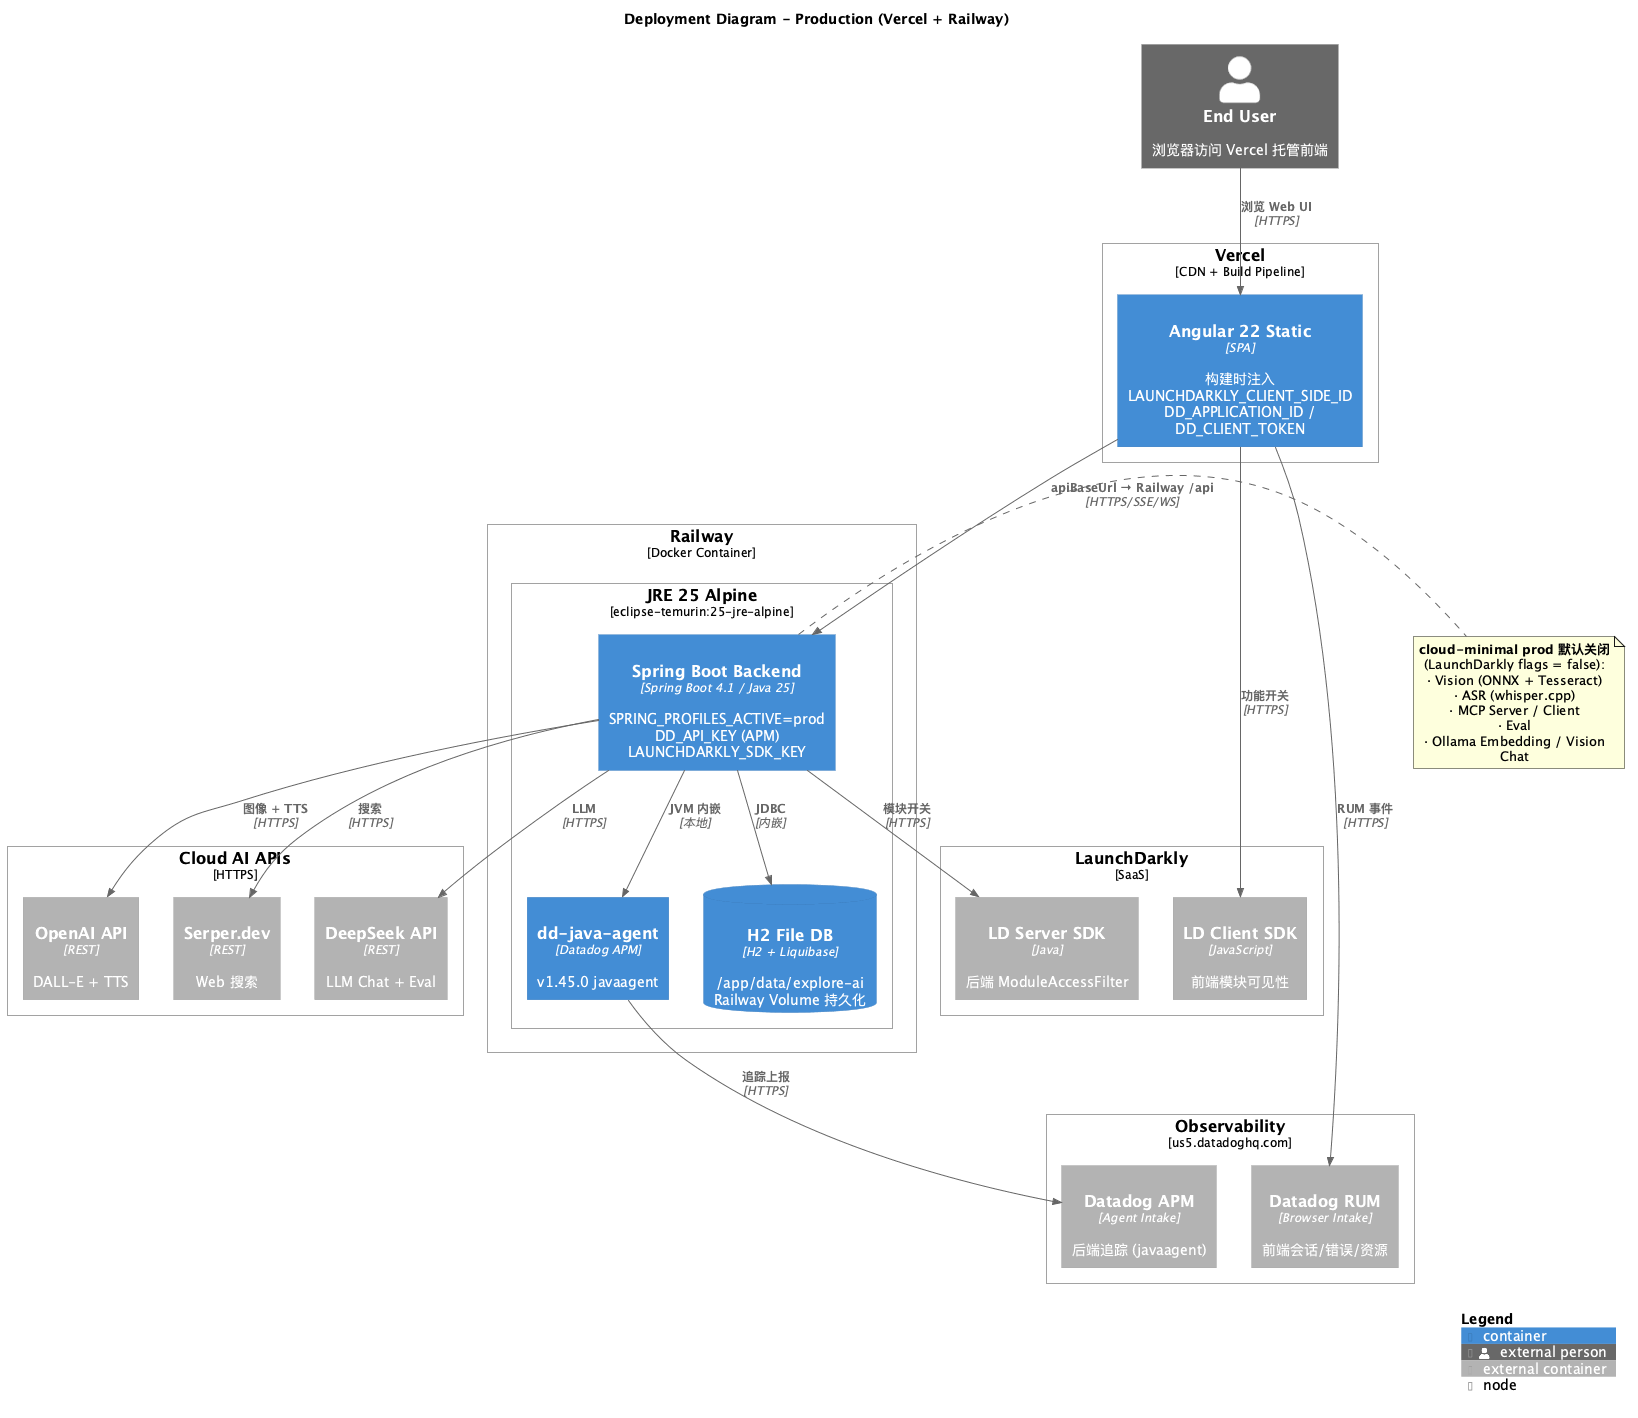
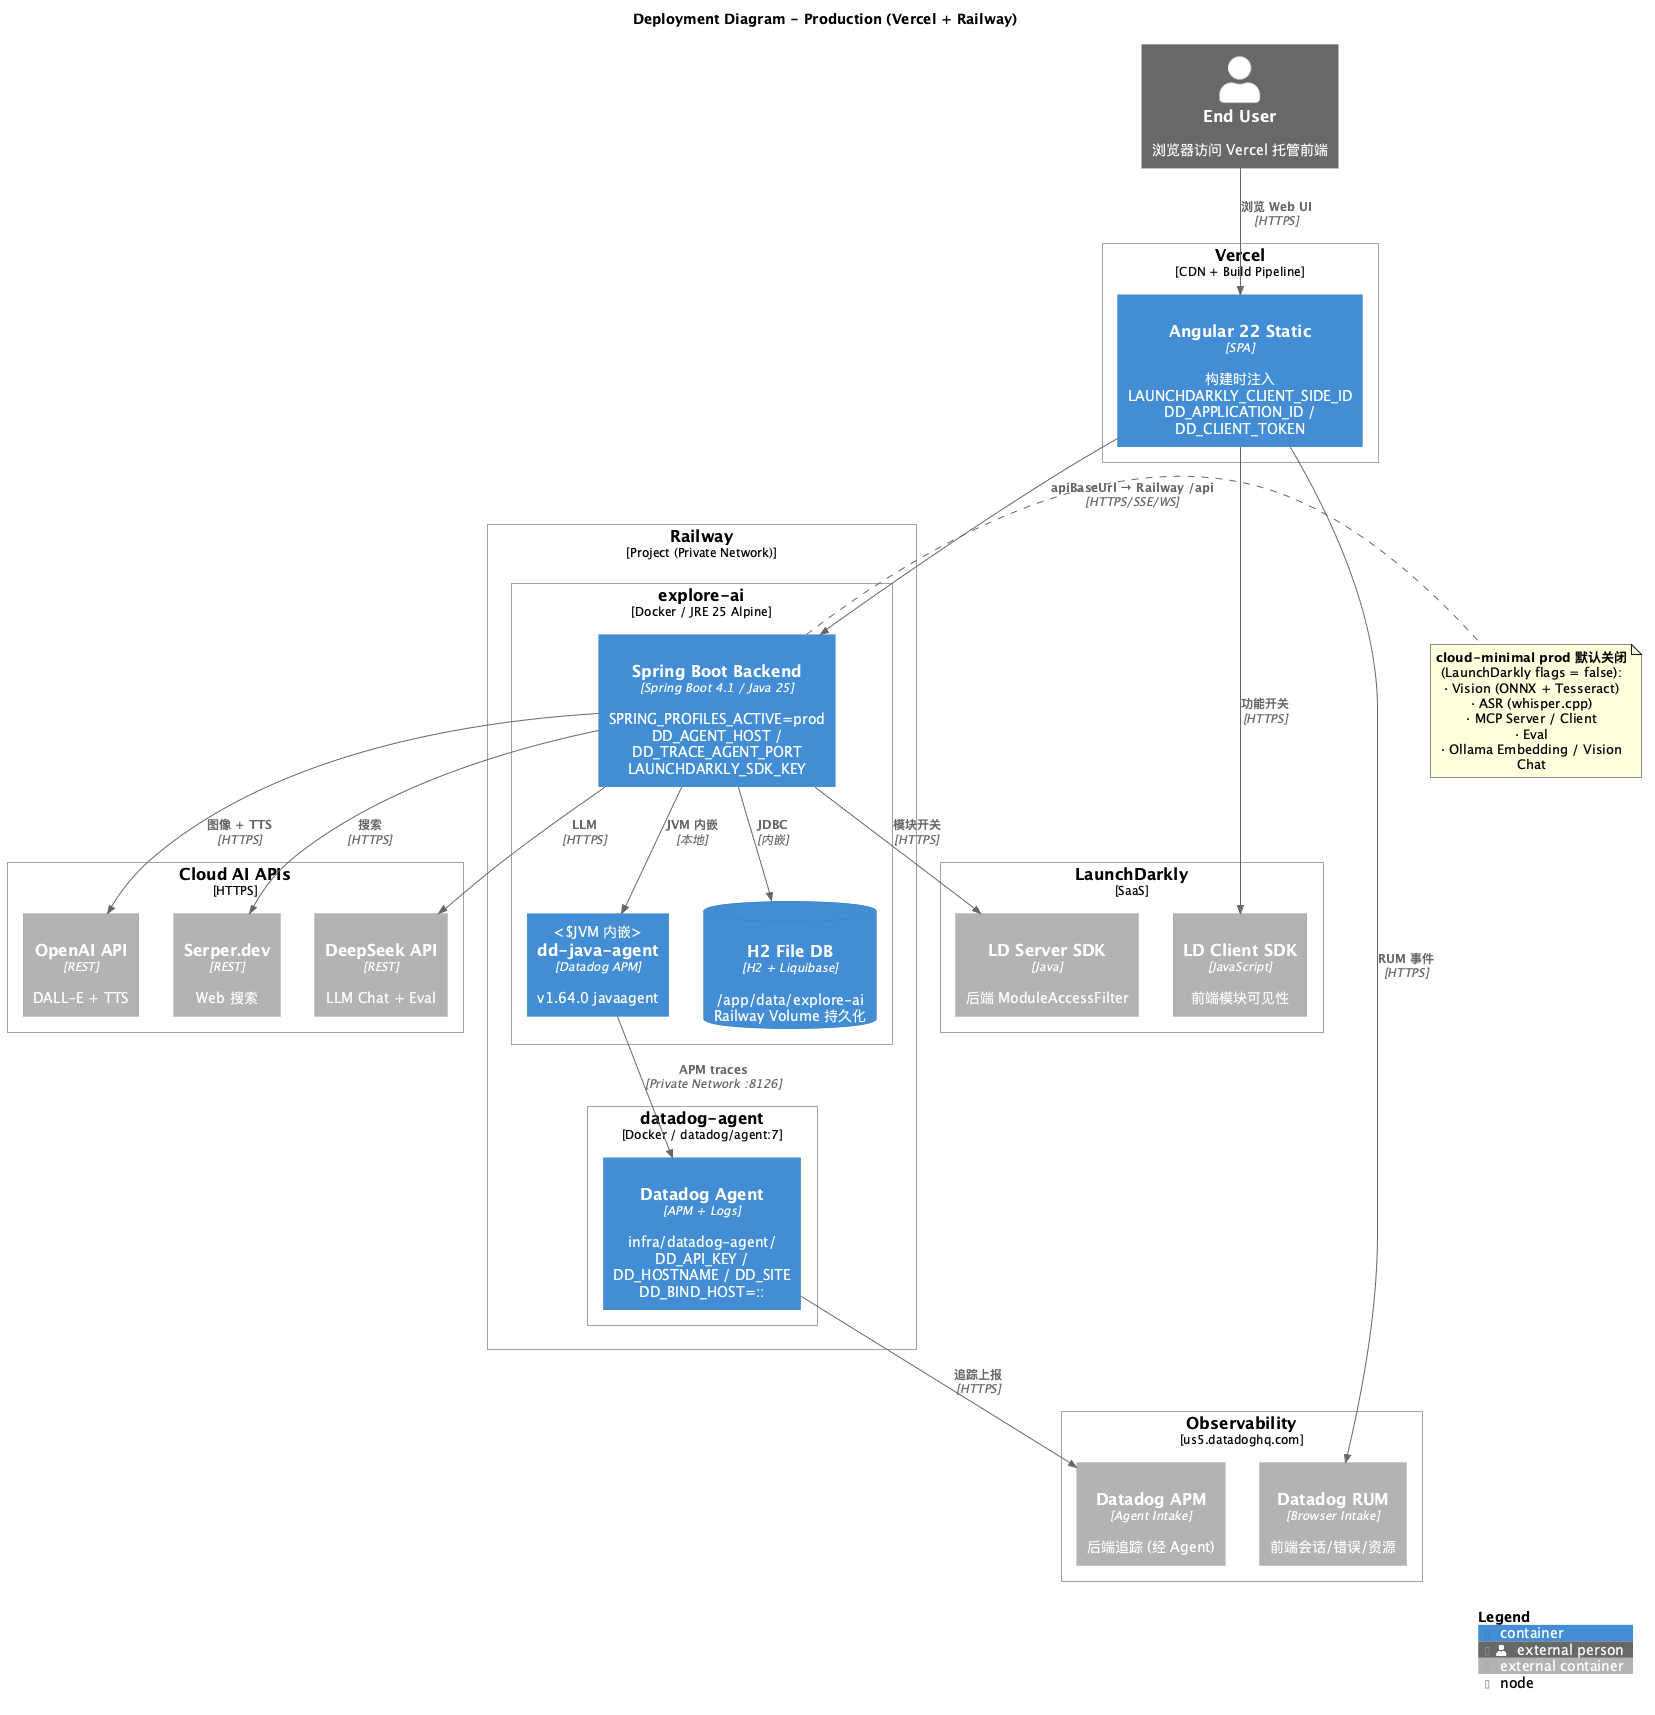
docs: align C4 production diagram with Datadog Agent (#271)
References:
- [Set Up a Datadog Agent in Railway](https://docs.railway.com/guides/set-up-a-datadog-agent)
- [Java Compatibility Requirements - Datadog](https://docs.datadoghq.com/tracing/trace_collection/compatibility/java/)

diff --git a/ai/docs/c4/README.md b/ai/docs/c4/README.md
@@ -11,7 +11,7 @@
 | `C3-Component-Backend.puml` | C3 | 后端组件图（Clean Architecture 四层） |
 | `C3-Component-Frontend.puml` | C3 | 前端组件图（路由守卫、分解 API 服务、RUM） |
 | `C4-Deployment.puml` | C4 | 本地开发环境部署图（:4200 → :9000） |
-| `C4-Deployment-Production.puml` | C4 | 生产部署图（Vercel + Railway + Datadog + LaunchDarkly） |
+| `C4-Deployment-Production.puml` | C4 | 生产部署图（Vercel + Railway explore-ai + datadog-agent + Datadog + LaunchDarkly） |
 
 ---
 
@@ -61,7 +61,7 @@
 - **子域**: Chat / RAG / Tools / Analysis / Eval / Image / Vision / Audio (TTS+ASR) / MCP Server / MCP Client
 - **持久化**: H2 嵌入式（会话元数据 `JdbcChatSessionMetadataRepository` + 消息 `JdbcChatMemoryRepository` + 向量）
 - **功能开关**: LaunchDarkly（`ModuleAccessFilter` + `FeatureFlagService`，4 个模块 flag）
-- **可观测性**: Datadog APM（`dd-java-agent` v1.45.0，Railway `DD_API_KEY`）
+- **可观测性**: Datadog APM（`dd-java-agent` v1.64.0 → Railway `datadog-agent` `:8126`；应用侧 `DD_AGENT_HOST`，Agent 侧 `DD_API_KEY`）。应用指标走 Micrometer/Prometheus（actuator），不上报 Datadog Metrics
 - **外部服务 (cloud)**: DeepSeek API (LLM) / OpenAI API (DALL-E + TTS) / Serper.dev (Web 搜索)
 - **本地服务 (dev / prod 默认关闭)**: Ollama / whisper.cpp / Tesseract / ONNX Vision
 
@@ -113,8 +113,8 @@ Browser :4200 → Angular Dev Server → proxy /api/* → Spring Boot :9000
 ### 生产 (cloud-minimal)
 
 ```
-Browser → Vercel (Angular static) → Railway (Docker :8080 + H2 volume + dd-java-agent)
-        ↘ Datadog RUM (us5)              ↘ Datadog APM
+Browser → Vercel (Angular static) → Railway explore-ai (:8080 + H2 + dd-java-agent v1.64.0)
+        ↘ Datadog RUM (us5)              ↘ Private Network :8126 → datadog-agent → Datadog APM
         ↘ LaunchDarkly Client            ↘ LaunchDarkly Server
                                          → DeepSeek / OpenAI / Serper
 ```
@@ -138,7 +138,8 @@ Browser → Vercel (Angular static) → Railway (Docker :8080 + H2 volume + dd-j
 | Vision ONNX Models | `models/` 本地文件 [local] |
 | Angular Dev Server | 4200 |
 | Vercel (prod frontend) | HTTPS |
-| Railway (prod backend) | HTTPS → :8080 |
+| Railway explore-ai (prod backend) | HTTPS → :8080 |
+| Railway datadog-agent | Private Network :8126（APM intake） |
 | DeepSeek / OpenAI / Serper | HTTPS |
 | LaunchDarkly / Datadog us5 | HTTPS |
 
